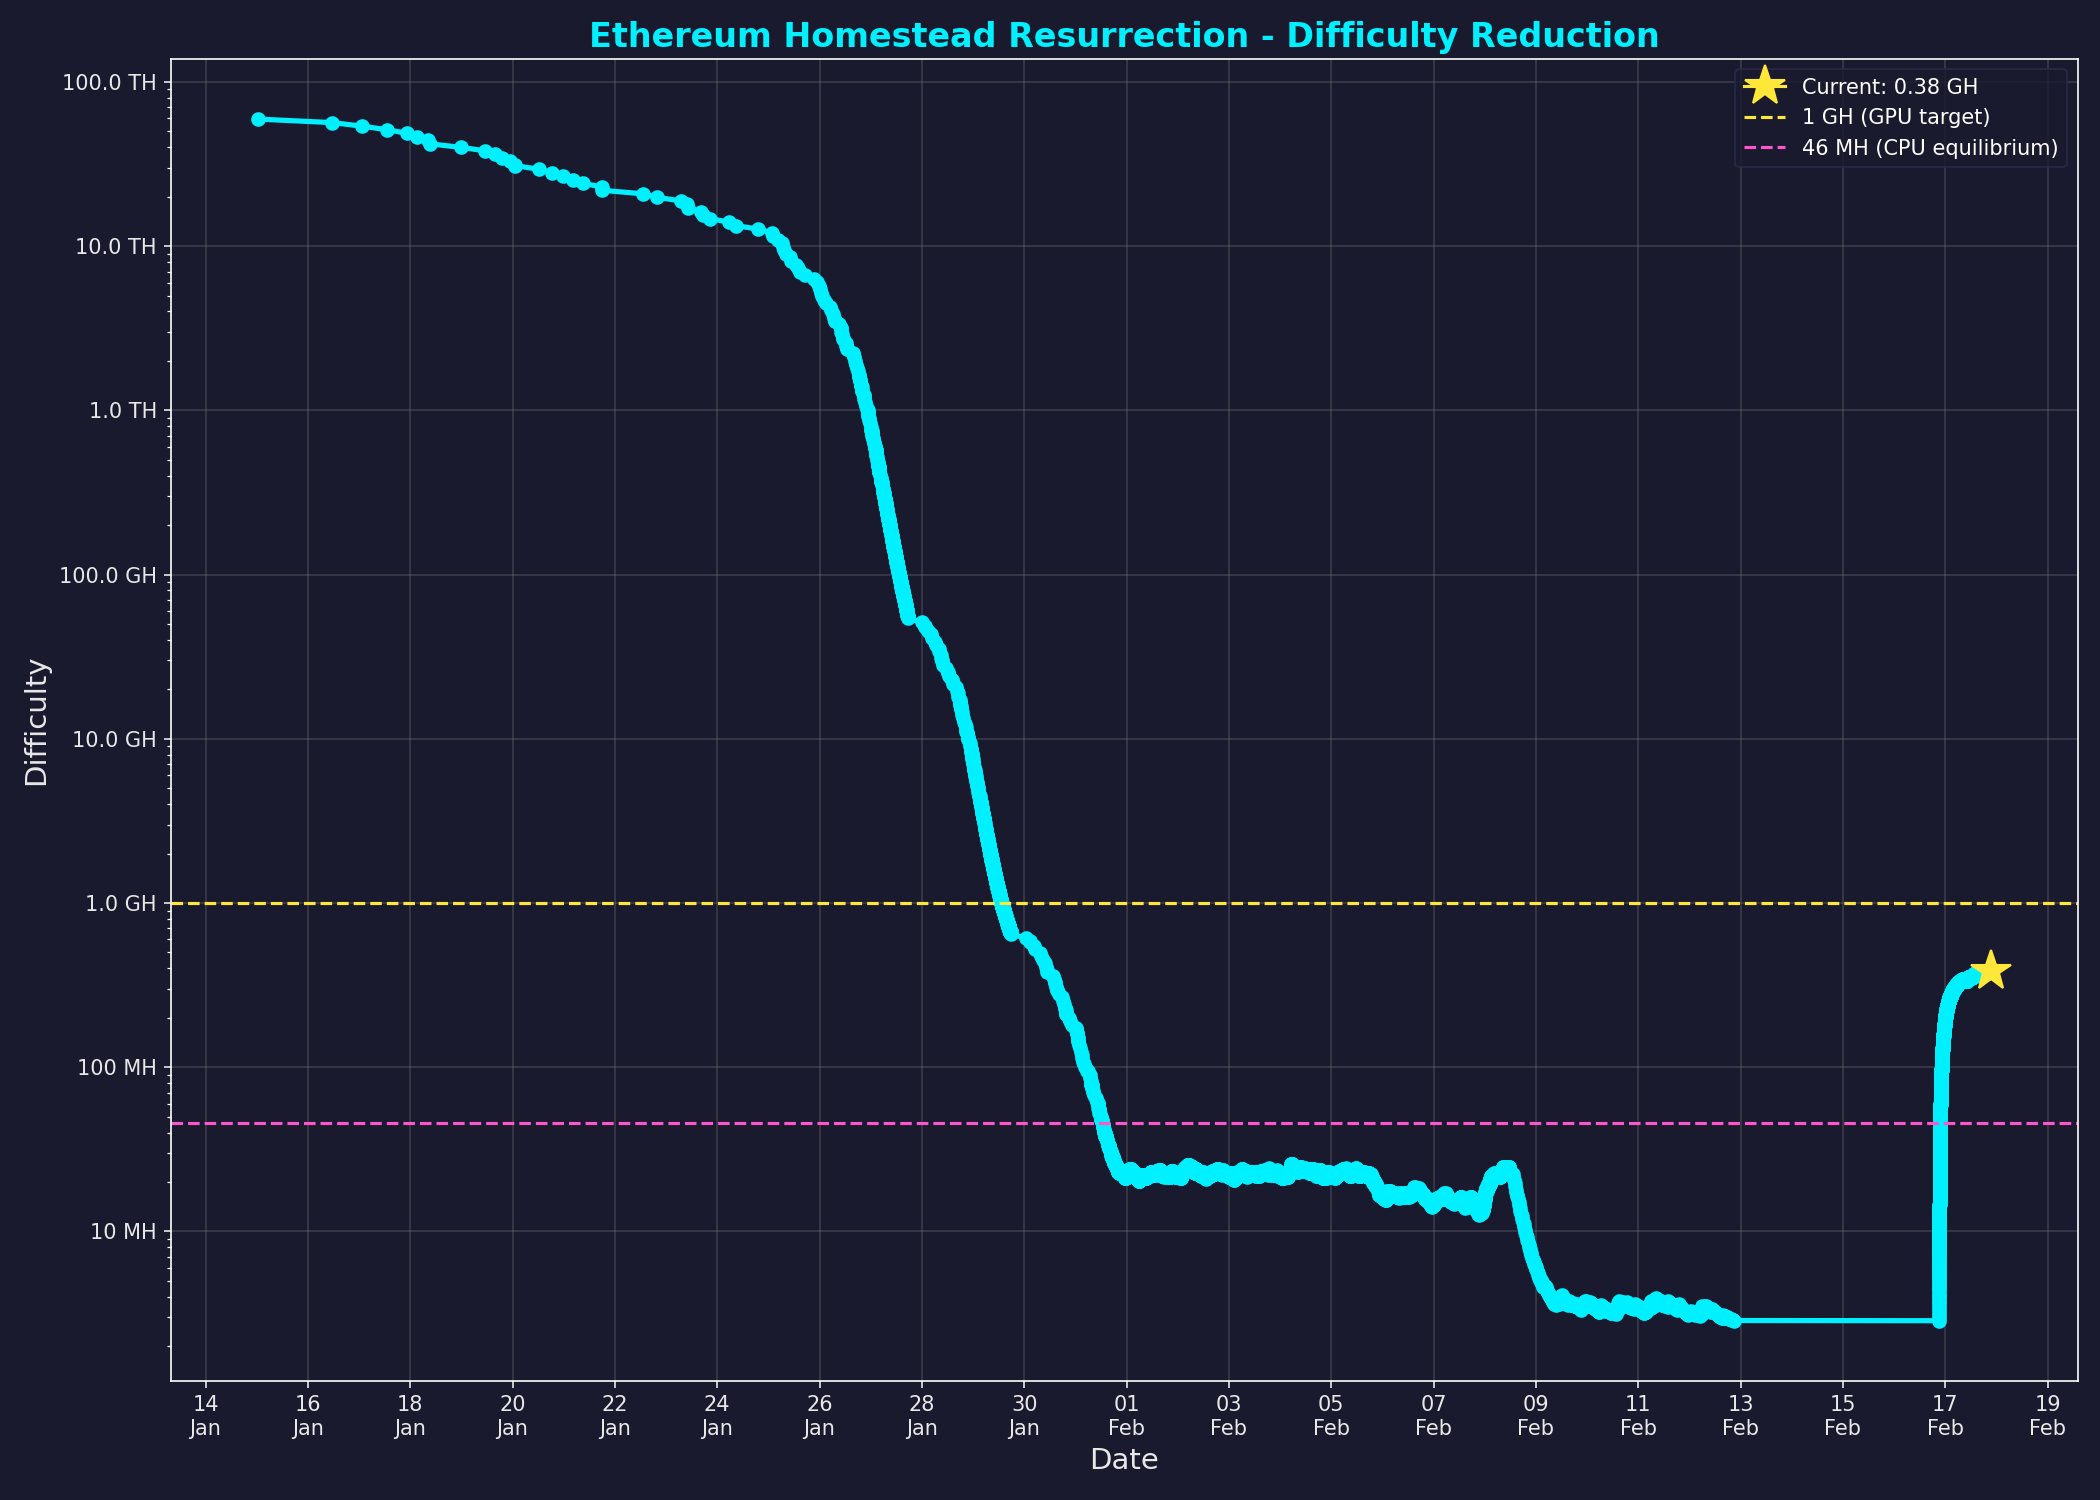
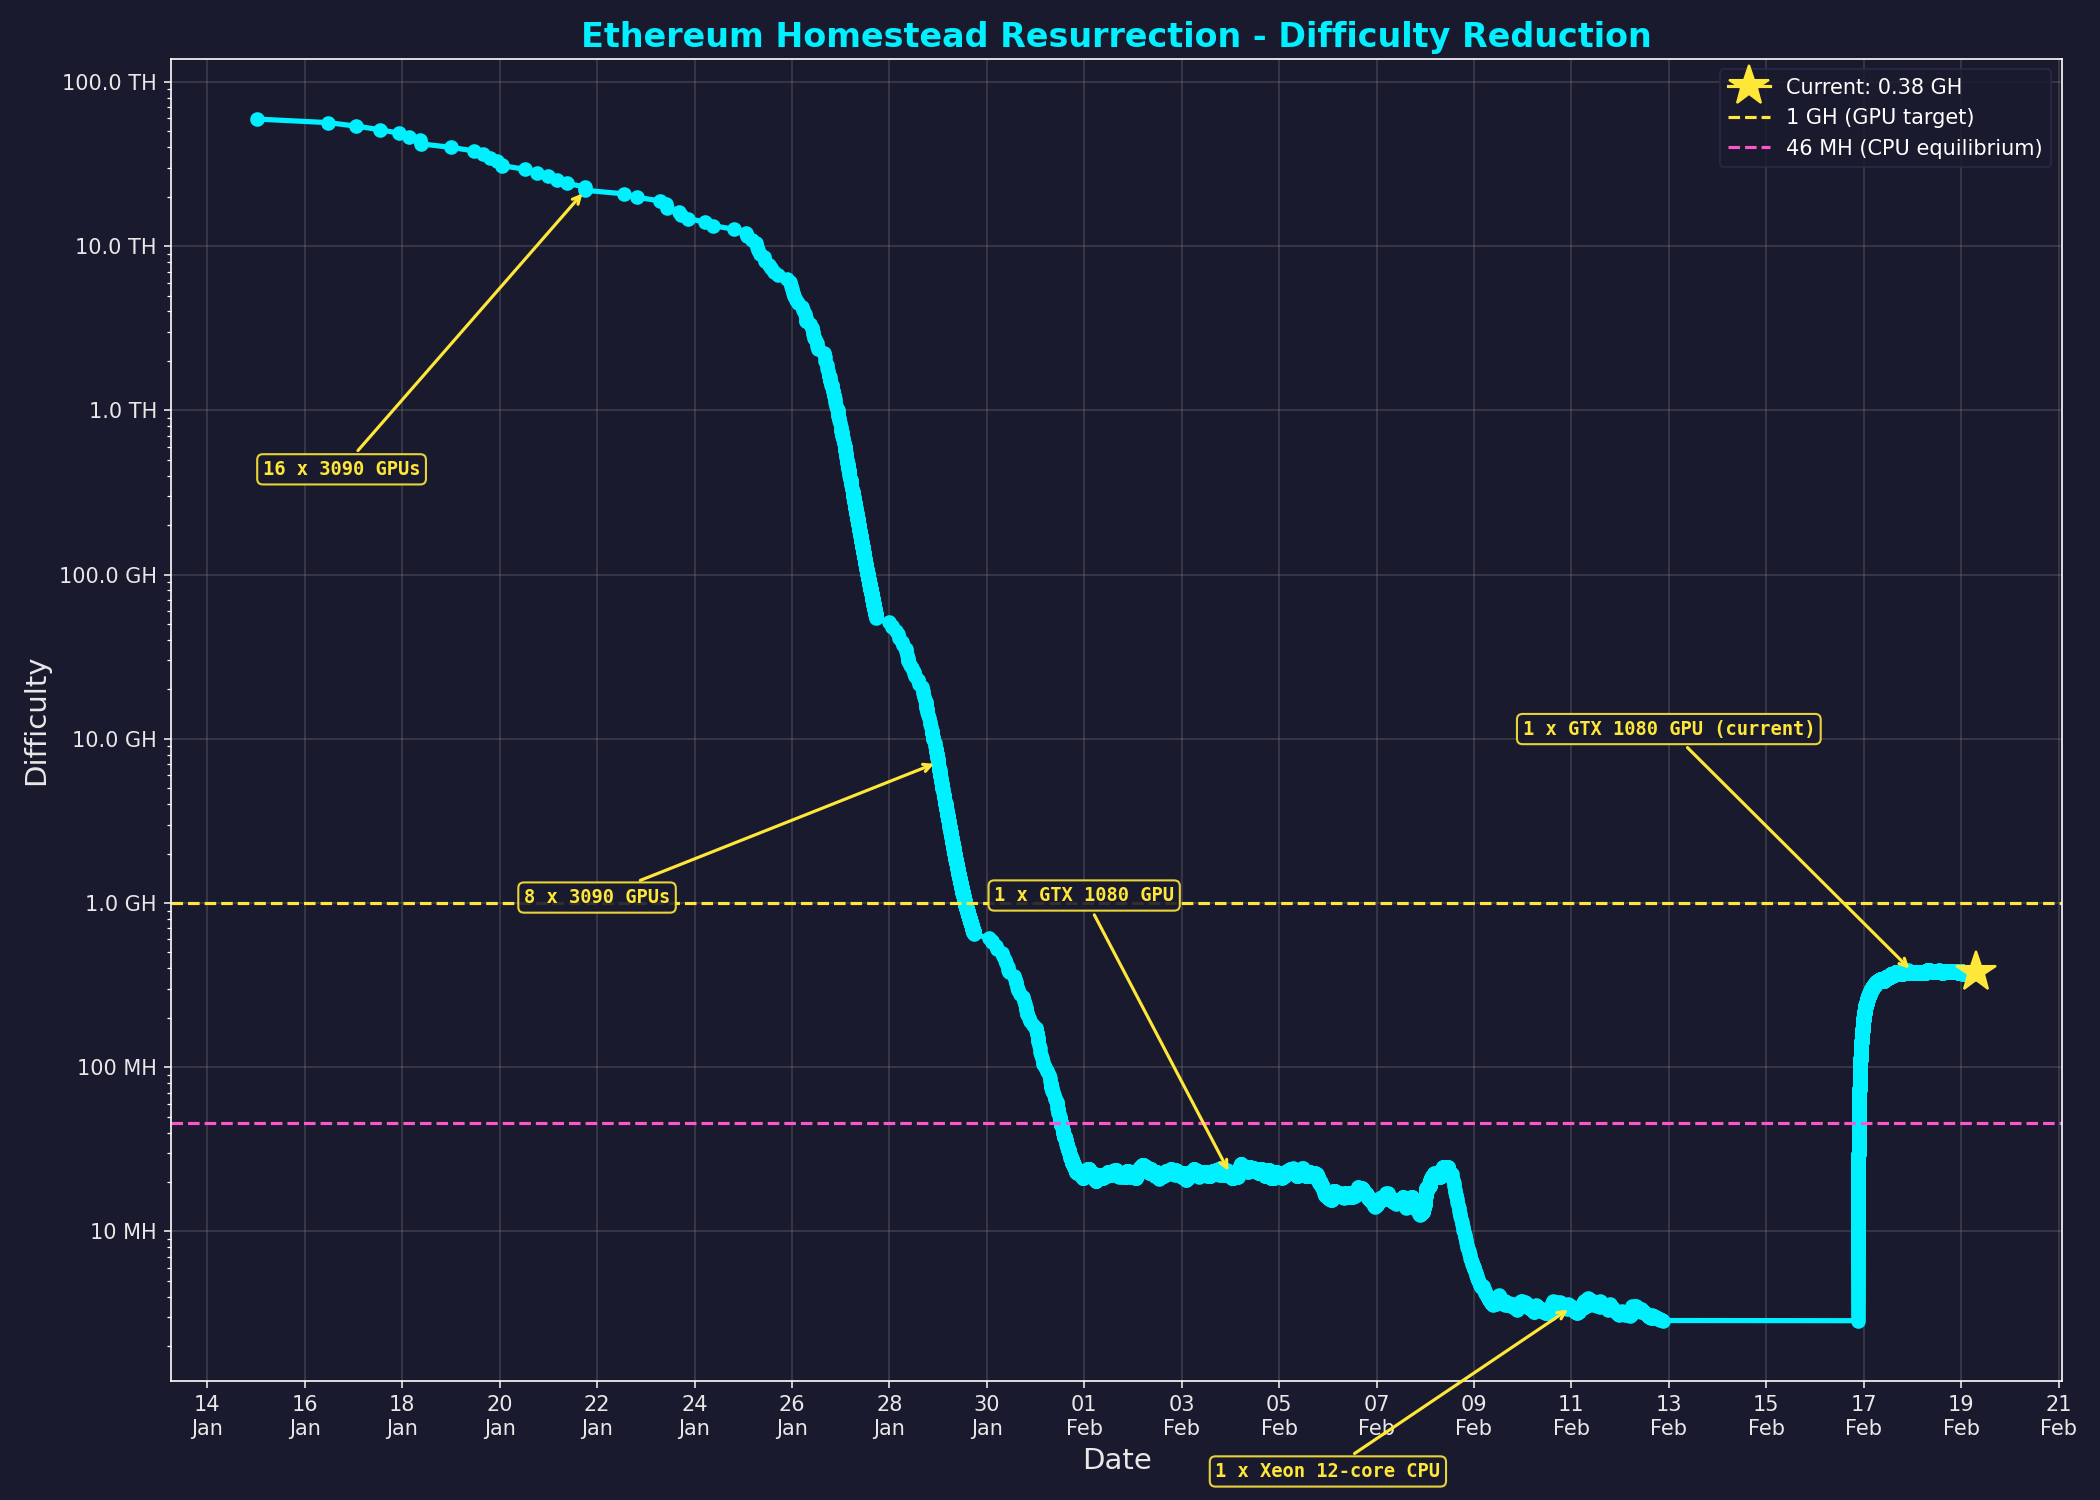
Add mining phase annotations to resurrection chart, museum info slide
- Annotate 5 mining phases on time chart (16x 3090, 8x 3090, GTX 1080,
  Xeon CPU, GTX 1080 current) with labeled arrows
- Filter time chart to block 1920000+ to avoid 10-year pre-fork gap
- Slideshow: 3 slides (sync, resurrection chart, museum info) at 20s cycle
- Add generate-museum-info.py for ThinkPad instruction graphic
- Include museum_info.png in deploy chart copy loop

diff --git a/chain-of-geths/monitoring/slideshow-ui/server.js b/chain-of-geths/monitoring/slideshow-ui/server.js
@@ -6,7 +6,7 @@ const app = express();
 const PORT = Number.parseInt(process.env.PORT || "8089", 10);
 const SYNC_UI_URL = (process.env.SYNC_UI_URL || "http://sync-ui:8088").replace(/\/+$/, "");
 const CHARTS_DIR = process.env.CHARTS_DIR || "/charts";
-const CYCLE_SECONDS = Number.parseInt(process.env.CYCLE_SECONDS || "10", 10);
+const CYCLE_SECONDS = Number.parseInt(process.env.CYCLE_SECONDS || "20", 10);
 
 // Serve static chart images.
 app.use("/charts", express.static(CHARTS_DIR));
@@ -120,10 +120,10 @@ app.get("/", (req, res) => {
       <iframe src="/sync"></iframe>
     </div>
     <div id="slide-1" class="slide slide-chart">
-      <img src="/charts/resurrection_chart.png" alt="Resurrection Chart (Time)" />
+      <img src="/charts/resurrection_chart.png" alt="Resurrection Chart" />
     </div>
     <div id="slide-2" class="slide slide-chart">
-      <img src="/charts/resurrection_chart_blocks.png" alt="Resurrection Chart (Blocks)" />
+      <img src="/charts/museum_info.png" alt="Museum Info" />
     </div>
 
     <div id="indicator"></div>

diff --git a/resurrection/generate-museum-info.py b/resurrection/generate-museum-info.py
@@ -1,0 +1,129 @@
+#!/usr/bin/env python3
+"""Generate museum info graphic for the slideshow."""
+
+import matplotlib.pyplot as plt
+import matplotlib.patches as mpatches
+
+# Color palette (matches sync-ui / resurrection charts)
+CYAN = '#00F0FF'
+YELLOW = '#FFE739'
+PINK = '#FF55CC'
+PURPLE = '#6245EB'
+BACKGROUND = '#1a1a2e'
+TEXT = '#e8e8e8'
+DIM = '#999999'
+CARD_BG = '#242445'
+BORDER = '#3a3a5a'
+
+def generate():
+    fig, ax = plt.subplots(figsize=(16, 10))
+    fig.patch.set_facecolor(BACKGROUND)
+    ax.set_facecolor(BACKGROUND)
+    ax.axis('off')
+
+    # Title
+    ax.text(0.5, 0.95, 'Homestead Resurrected', fontsize=32, fontweight='bold',
+            color=CYAN, ha='center', va='top', transform=ax.transAxes,
+            fontfamily='monospace')
+
+    ax.text(0.5, 0.89, 'These ThinkPads are running on a resurrected Homestead chain.',
+            fontsize=14, color=TEXT, ha='center', va='top', transform=ax.transAxes,
+            fontfamily='monospace')
+    ax.text(0.5, 0.855, 'Not a fork. Not a testnet. The real chain, extended.',
+            fontsize=14, color=YELLOW, ha='center', va='top', transform=ax.transAxes,
+            fontfamily='monospace', fontweight='bold')
+
+    # Hardware/Software specs - left column
+    specs_title_y = 0.78
+    ax.text(0.05, specs_title_y, 'HARDWARE & SOFTWARE', fontsize=12, fontweight='bold',
+            color=PURPLE, ha='left', va='top', transform=ax.transAxes,
+            fontfamily='monospace')
+
+    specs = [
+        ('ThinkPad T410', 'Intel Core i5, 4 GB memory'),
+        ('Windows 7', 'Authentic 2010-era hardware'),
+        ('Mist Wallet 0.7.4', 'Beta 18 — released 17 May 2016'),
+        ('Geth 1.3.6', 'Released 25 March 2016'),
+    ]
+
+    y = specs_title_y - 0.05
+    for label, desc in specs:
+        ax.text(0.07, y, '›', fontsize=14, color=CYAN, ha='left', va='top',
+                transform=ax.transAxes, fontfamily='monospace', fontweight='bold')
+        ax.text(0.10, y, label, fontsize=13, color=TEXT, ha='left', va='top',
+                transform=ax.transAxes, fontfamily='monospace', fontweight='bold')
+        ax.text(0.10, y - 0.030, desc, fontsize=11, color=DIM, ha='left', va='top',
+                transform=ax.transAxes, fontfamily='monospace')
+        y -= 0.070
+
+    # What can you do - right column
+    ax.text(0.55, specs_title_y, 'TRY IT YOURSELF', fontsize=12, fontweight='bold',
+            color=PURPLE, ha='left', va='top', transform=ax.transAxes,
+            fontfamily='monospace')
+
+    steps = [
+        ('1.', 'Click', 'Send'),
+        ('2.', 'Choose an amount of ETH to send', ''),
+        ('3.', 'Paste the receiver address from', 'Addresses.txt on the desktop'),
+        ('4.', 'Scroll to the bottom and click', 'Send'),
+        ('5.', 'Enter the password:', 'museum'),
+    ]
+
+    y = specs_title_y - 0.05
+    for num, line1, line2 in steps:
+        ax.text(0.57, y, num, fontsize=13, color=CYAN, ha='left', va='top',
+                transform=ax.transAxes, fontfamily='monospace', fontweight='bold')
+        ax.text(0.61, y, line1, fontsize=12, color=TEXT, ha='left', va='top',
+                transform=ax.transAxes, fontfamily='monospace')
+        if line2:
+            ax.text(0.61, y - 0.030, line2, fontsize=12, color=YELLOW, ha='left', va='top',
+                    transform=ax.transAxes, fontfamily='monospace', fontweight='bold')
+        y -= 0.070
+
+    # Pending transactions note
+    ax.text(0.55, 0.355, 'Pending and completed transactions are shown',
+            fontsize=10, color=DIM, ha='left', va='top', transform=ax.transAxes,
+            fontfamily='monospace')
+    ax.text(0.55, 0.325, 'at the very bottom of the page if you scroll down.',
+            fontsize=10, color=DIM, ha='left', va='top', transform=ax.transAxes,
+            fontfamily='monospace')
+
+    # Divider line
+    ax.plot([0.05, 0.95], [0.26, 0.26], color=BORDER, linewidth=1,
+            transform=ax.transAxes)
+
+    # MacBooks section
+    ax.text(0.05, 0.22, 'WHITE MACBOOKS', fontsize=12, fontweight='bold',
+            color=PURPLE, ha='left', va='top', transform=ax.transAxes,
+            fontfamily='monospace')
+    ax.text(0.05, 0.18, 'Browse the early history of Ethereum at',
+            fontsize=12, color=TEXT, ha='left', va='top', transform=ax.transAxes,
+            fontfamily='monospace')
+    ax.text(0.05, 0.145, 'earlydaysofeth.org',
+            fontsize=14, color=CYAN, ha='left', va='top', transform=ax.transAxes,
+            fontfamily='monospace', fontweight='bold')
+
+    # Footer with repo link
+    ax.plot([0.05, 0.95], [0.09, 0.09], color=BORDER, linewidth=1,
+            transform=ax.transAxes)
+
+    ax.text(0.5, 0.05, 'Try this at home    github.com/bobsummerwill/EthereumTimeMachine',
+            fontsize=12, color=DIM, ha='center', va='top', transform=ax.transAxes,
+            fontfamily='monospace')
+
+    plt.tight_layout(pad=1.0)
+
+    import os
+    script_dir = os.path.dirname(os.path.abspath(__file__))
+    output_dir = os.path.join(script_dir, 'generated-files')
+    os.makedirs(output_dir, exist_ok=True)
+
+    out_png = os.path.join(output_dir, 'museum_info.png')
+    out_svg = os.path.join(output_dir, 'museum_info.svg')
+    plt.savefig(out_png, dpi=150, facecolor=BACKGROUND, bbox_inches='tight')
+    plt.savefig(out_svg, facecolor=BACKGROUND, bbox_inches='tight')
+    plt.close()
+    print(f"Saved to {out_png} and {out_svg}")
+
+if __name__ == '__main__':
+    generate()

diff --git a/resurrection/regenerate-charts.py b/resurrection/regenerate-charts.py
@@ -204,8 +204,10 @@ def short_hash(value):
 
 def generate_chart(blocks_data, output_dir):
     """Generate the difficulty vs time chart."""
-    times = [datetime.fromtimestamp(b['timestamp']) for b in blocks_data]
-    diffs = [b['difficulty'] for b in blocks_data]
+    # Filter to resurrection-era blocks only (1920000+) to avoid 10-year gap from pre-fork block
+    resurrection_data = [b for b in blocks_data if b['number'] >= 1920000]
+    times = [datetime.fromtimestamp(b['timestamp']) for b in resurrection_data]
+    diffs = [b['difficulty'] for b in resurrection_data]
 
     plt.style.use('dark_background')
     fig, ax = plt.subplots(figsize=(14, 10))
@@ -223,6 +225,55 @@ def generate_chart(blocks_data, output_dir):
     # Target lines
     ax.axhline(y=1e9, color=YELLOW, linestyle='--', linewidth=1.5, label='1 GH (GPU target)')
     ax.axhline(y=46e6, color=PINK, linestyle='--', linewidth=1.5, label='46 MH (CPU equilibrium)')
+
+    # --- Mining phase annotations ---
+    from datetime import timedelta
+
+    arrow_style = dict(arrowstyle='->', color=YELLOW, lw=1.5)
+    bbox_style = dict(boxstyle='round,pad=0.3', facecolor=BACKGROUND, edgecolor=YELLOW, alpha=0.9)
+    label_kwargs = dict(fontsize=9, color=YELLOW, fontfamily='monospace', fontweight='bold',
+                        ha='center', va='center', bbox=bbox_style)
+
+    # Helper: find the data point closest to a given date
+    def _closest(target_date):
+        best_idx = 0
+        best_delta = abs(times[0] - target_date)
+        for i, t in enumerate(times):
+            d = abs(t - target_date)
+            if d < best_delta:
+                best_delta = d
+                best_idx = i
+        return times[best_idx], diffs[best_idx]
+
+    # Phase 1: 16 x 3090 GPUs — up to ~Jan 28
+    p1_x, p1_y = _closest(datetime(2026, 1, 22))
+    ax.annotate('16 x 3090 GPUs', xy=(p1_x, p1_y),
+                xytext=(p1_x - timedelta(days=5), p1_y * 0.02),
+                arrowprops=arrow_style, **label_kwargs)
+
+    # Phase 2: 8 x 3090 GPUs — ~Jan 28 to ~Jan 30
+    p2_x, p2_y = _closest(datetime(2026, 1, 29))
+    ax.annotate('8 x 3090 GPUs', xy=(p2_x, p2_y),
+                xytext=(p2_x - timedelta(days=7), p2_y * 0.15),
+                arrowprops=arrow_style, **label_kwargs)
+
+    # Phase 3: 1 x GTX 1080 GPU — ~Jan 30 to ~Feb 9
+    p3_x, p3_y = _closest(datetime(2026, 2, 4))
+    ax.annotate('1 x GTX 1080 GPU', xy=(p3_x, p3_y),
+                xytext=(p3_x - timedelta(days=3), p3_y * 50),
+                arrowprops=arrow_style, **label_kwargs)
+
+    # Phase 4: 1 x Xeon 12-core CPU — ~Feb 9 to ~Feb 13
+    p4_x, p4_y = _closest(datetime(2026, 2, 11))
+    ax.annotate('1 x Xeon 12-core CPU', xy=(p4_x, p4_y),
+                xytext=(p4_x - timedelta(days=5), p4_y * 0.1),
+                arrowprops=arrow_style, **label_kwargs)
+
+    # Phase 5: 1 x GTX 1080 GPU — from ~Feb 17
+    p5_x, p5_y = _closest(datetime(2026, 2, 18))
+    ax.annotate('1 x GTX 1080 GPU (current)', xy=(p5_x, p5_y),
+                xytext=(p5_x - timedelta(days=5), p5_y * 30),
+                arrowprops=arrow_style, **label_kwargs)
 
     # Formatting
     ax.set_ylabel('Difficulty', color=TEXT, fontsize=14)
